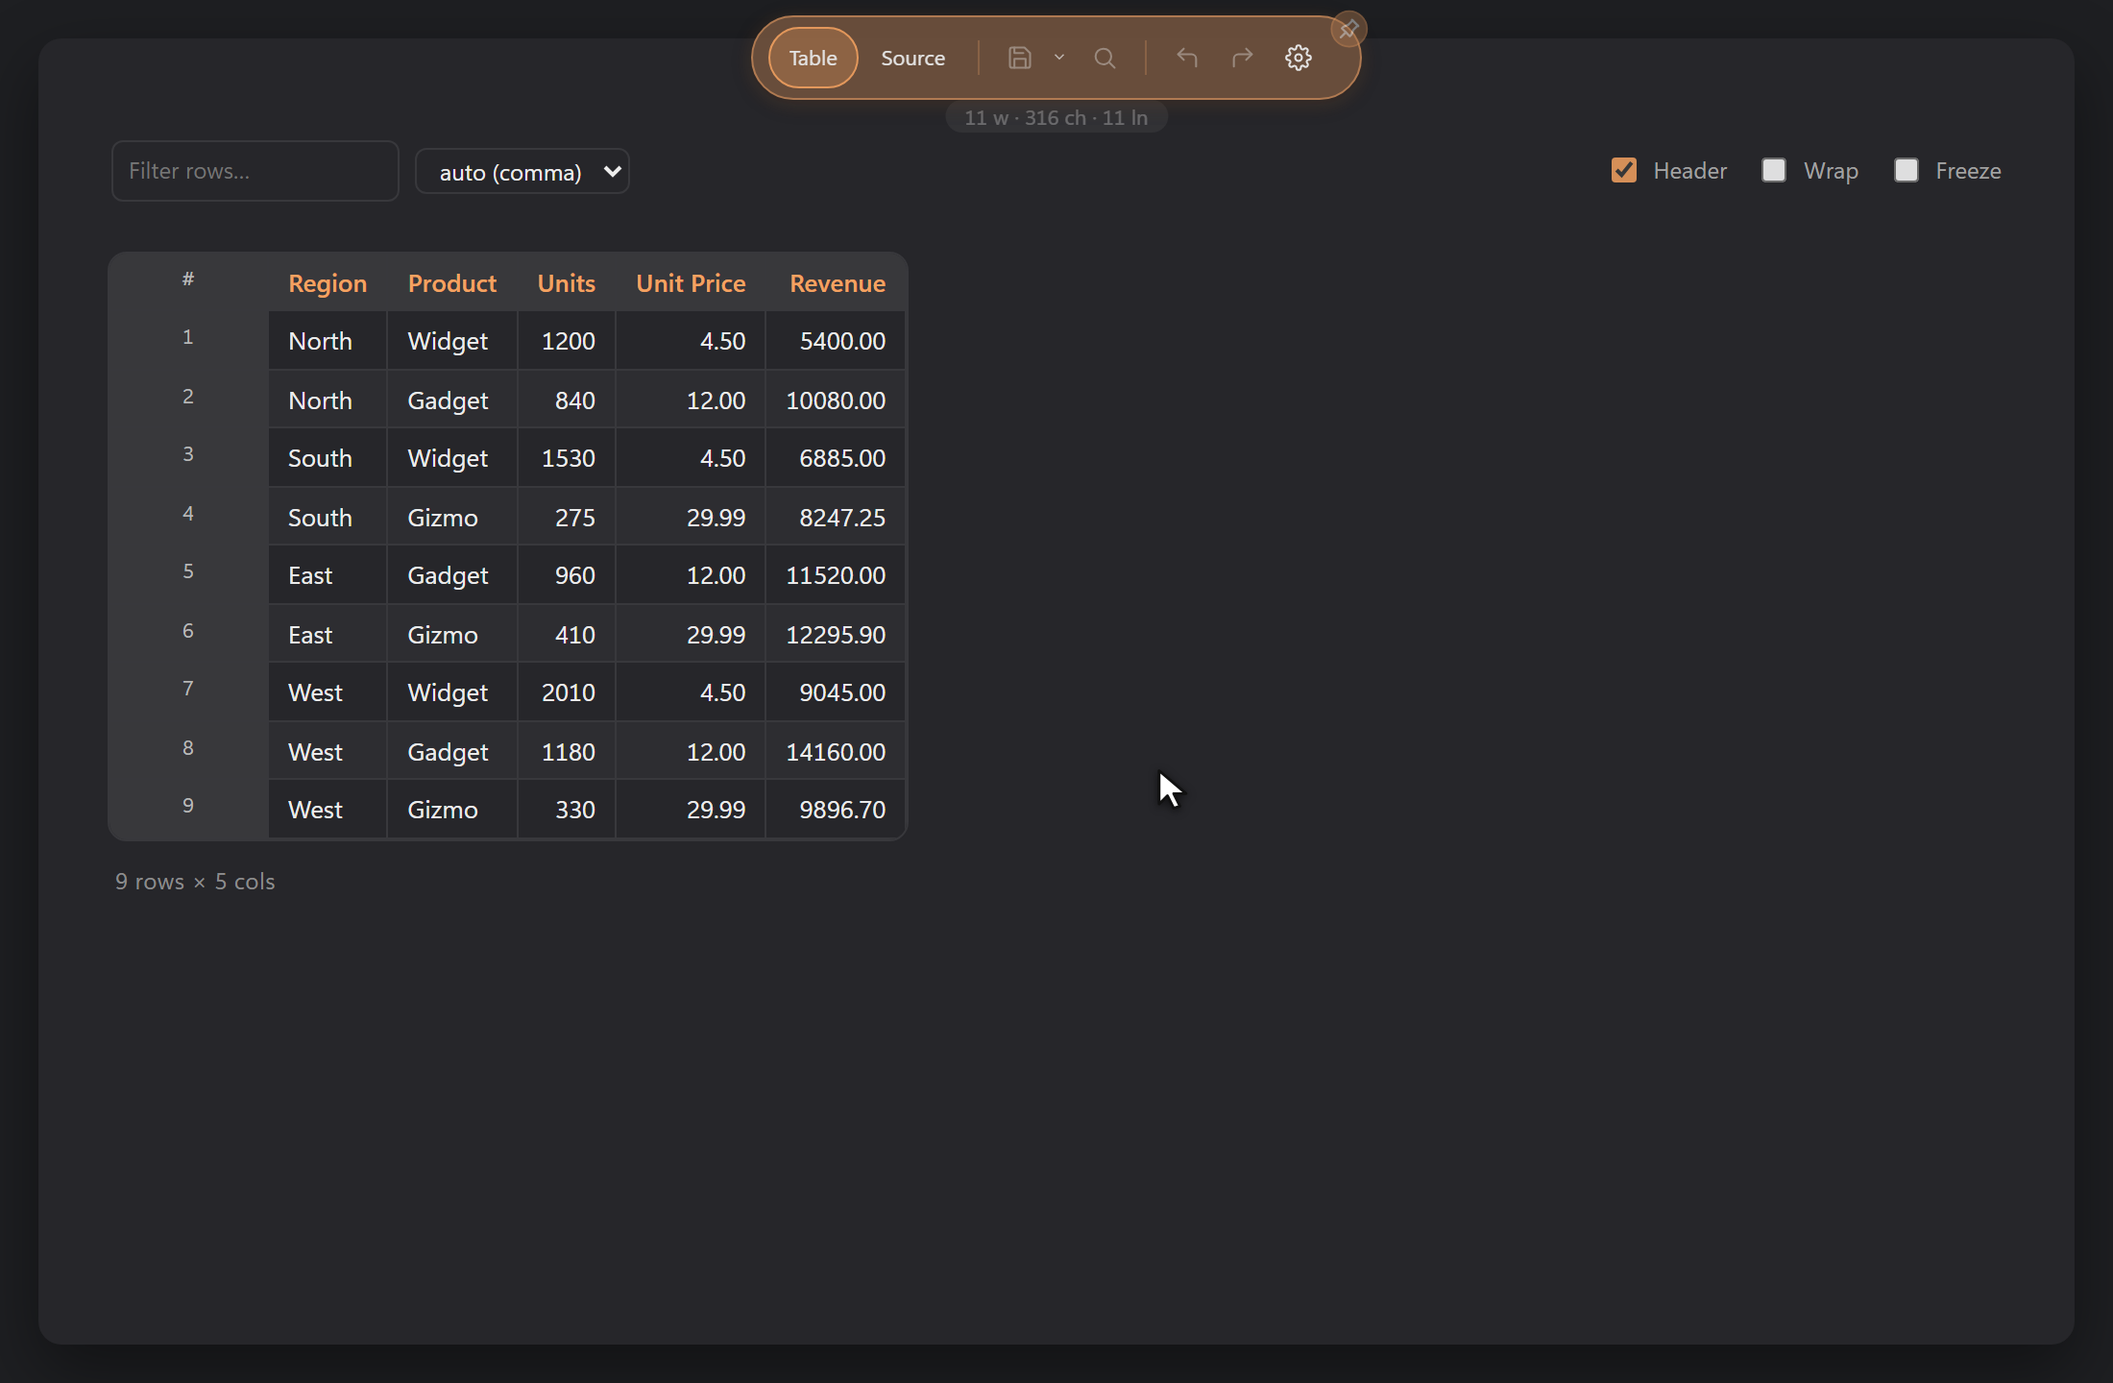
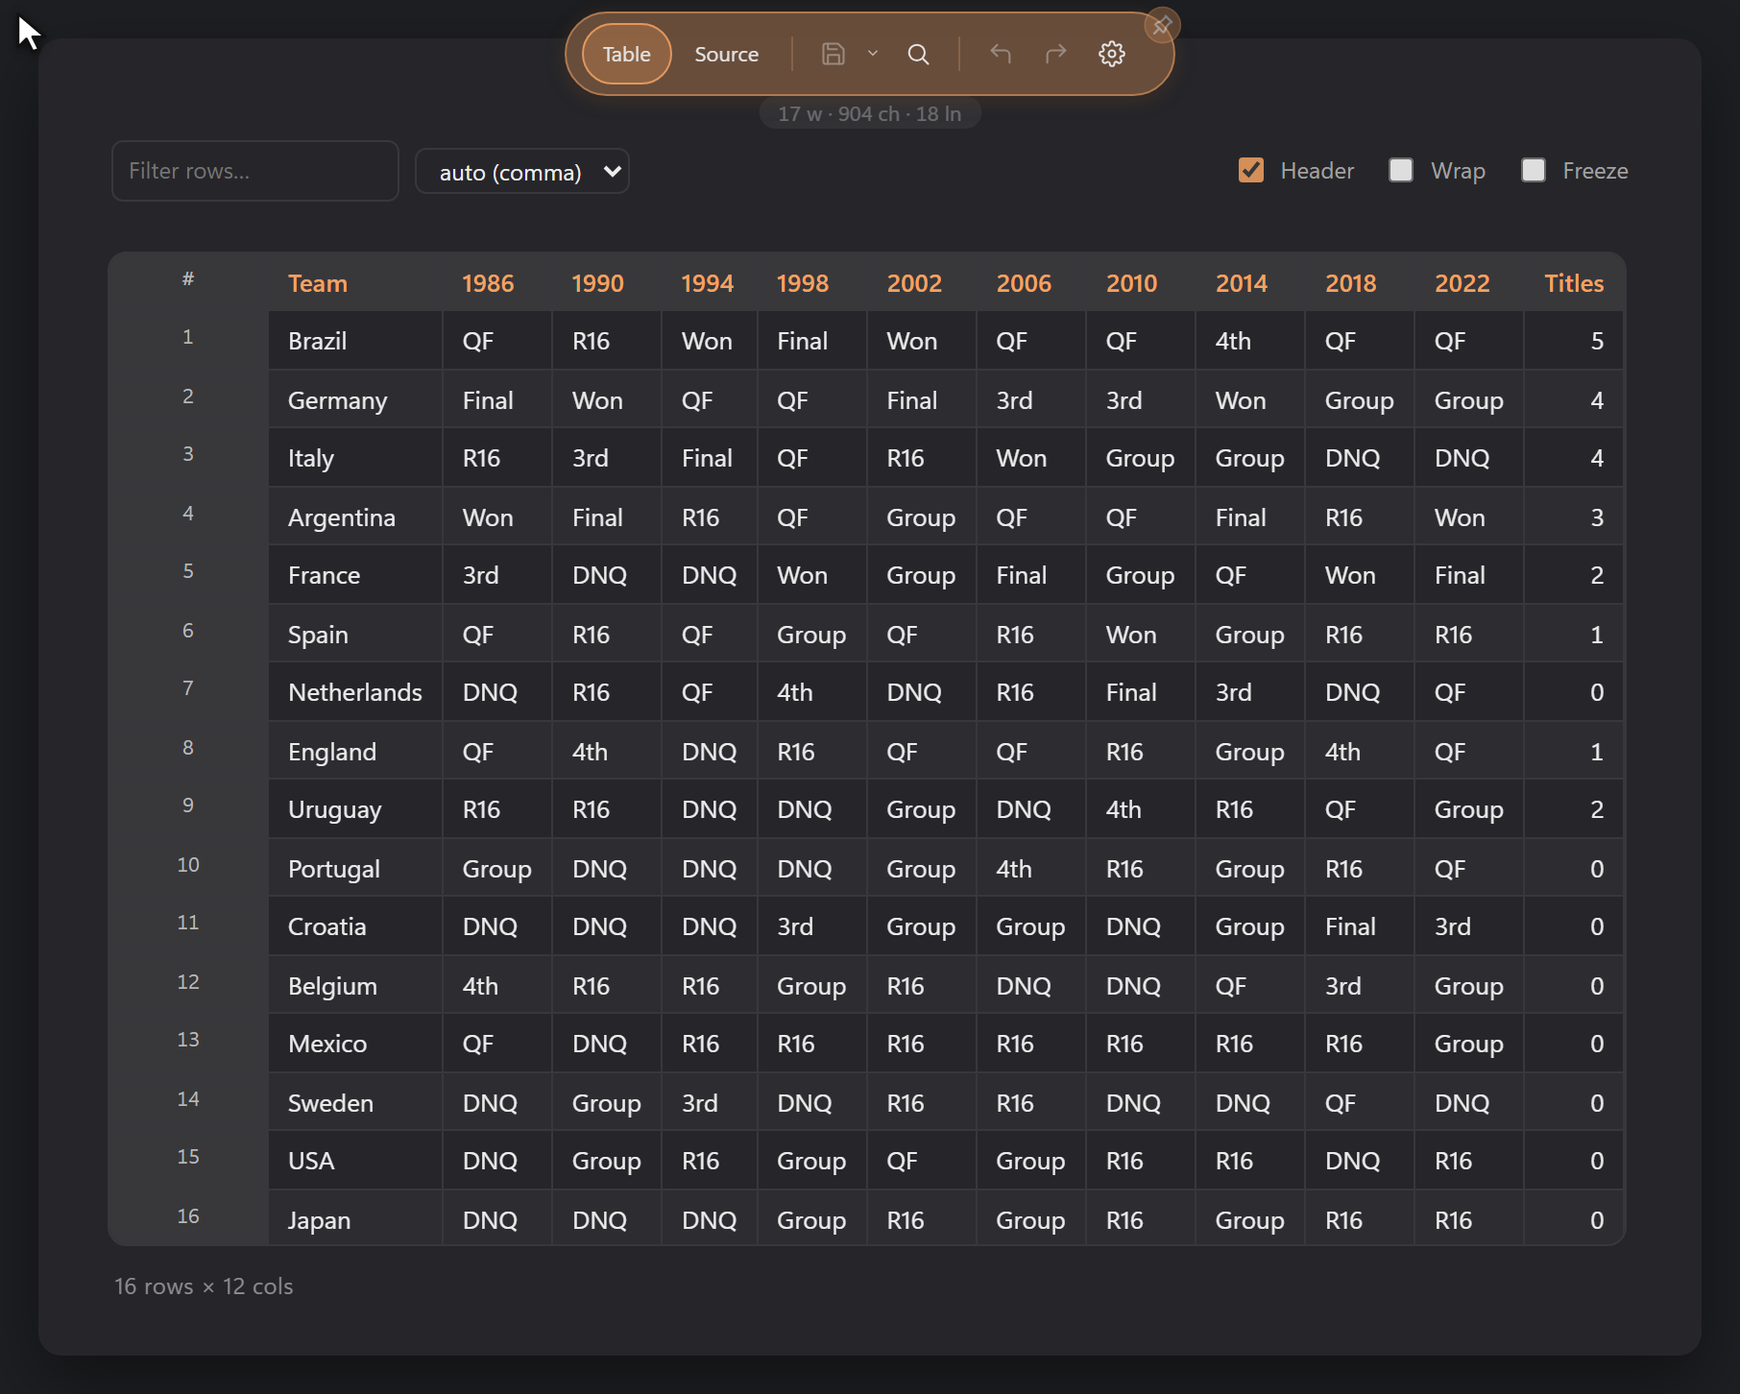
README and docs: HTML image sizing, side-by-side dark/light Mermaid, and a World Cup CSV that fills the view

diff --git a/README.md b/README.md
@@ -61,16 +61,23 @@ in**: Reading, Live or Source). DopusWorX also remembers the view you last used
 for each file, and you can keep that always, turn it off, or have it expire after
 anything from five minutes to a year.
 
-| Reading | Live |
-|:---:|:---:|
-| ![Reading: the finished, rendered page](img/reading.png) | ![Live: rendered as you type, with the formatting toolbar](img/live-toolbar.png) |
+<table>
+<tr>
+<td width="50%"><img src="img/reading.png" alt="Reading: the finished, rendered page"></td>
+<td width="50%"><img src="img/live-toolbar.png" alt="Live: rendered as you type, with the formatting toolbar"></td>
+</tr>
+<tr>
+<td align="center"><b>Reading</b></td>
+<td align="center"><b>Live</b></td>
+</tr>
+</table>
 
 **The split view.** Click Source a second time and the pane splits down the
 middle: the raw Markdown on the left, the live preview on the right, with a
 divider you can drag to resize the two panes and a button to link or unlink their
 scrolling.
 
-![The split view: raw Markdown source on the left, the live preview on the right, with a draggable divider between them](img/source-split.png)
+<img src="img/source-split.png" width="100%" alt="The split view: raw Markdown source on the left, the live preview on the right, with a draggable divider between them">
 
 A full formatting toolbar sits underneath: bold, italic, strikethrough,
 highlight, inline code, links, footnotes, a heading button that cycles H1 to H6,
@@ -105,7 +112,7 @@ Prices are safe: `$5` stays as text, and `\$` gives you a literal dollar sign.
 The maths engine only loads on notes that actually contain equations, so plain
 notes stay quick. See [`docs/04-maths.md`](docs/04-maths.md) for the full guide.
 
-![The maths symbol panel beside a rendered equation](img/maths-panel.png)
+<img src="img/maths-panel.png" width="100%" alt="The maths symbol panel beside a rendered equation">
 
 ## Diagrams
 
@@ -125,14 +132,19 @@ diagram.
 - A broken diagram shows a ⚠ box with its source and the reason, never taking the
   rest of the note down with it.
 
-DopusWorX draws the diagram inline, in the document's own colours:
+DopusWorX draws the diagram inline. With **Match page** the same diagram takes its
+colours from the active palette, so it suits a dark page or a light one:
 
-![A sequence diagram and a pie chart rendered inline by DopusWorX](img/mermaid-types.png)
-
-With **Match page**, the same diagram takes its colours from the active palette,
-so it suits a light page as readily as a dark one:
-
-![A pie chart coloured from a light page palette](img/mermaid-palette.png)
+<table>
+<tr>
+<td width="50%"><img src="img/mermaid-dark.png" alt="A World Cup titles pie chart drawn on a dark palette"></td>
+<td width="50%"><img src="img/mermaid-light.png" alt="The same pie chart drawn on a light palette"></td>
+</tr>
+<tr>
+<td align="center"><b>Dark palette</b></td>
+<td align="center"><b>Light palette</b></td>
+</tr>
+</table>
 
 See [`docs/08-mermaid.md`](docs/08-mermaid.md) for the full guide, with a live
 example of every diagram type.
@@ -153,7 +165,7 @@ code, since there is nothing to render).
 Fenced code blocks inside a Markdown document are highlighted in every Markdown
 mode.
 
-![Source view with syntax highlighting, line-number gutter and copy button](img/code-view.png)
+<img src="img/code-view.png" width="100%" alt="Source view with syntax highlighting, line-number gutter and copy button">
 
 ## CSV and tables
 
@@ -161,16 +173,23 @@ CSV and TSV open as an editable grid: click a header to sort, double-click a cel
 to edit, add or delete rows with undo and redo, filter, freeze the first column,
 override the delimiter, and copy the whole thing out as a Markdown table.
 
-![CSV opened as an editable, sortable grid](img/csv-grid.png)
+<img src="img/csv-grid.png" width="100%" alt="A CSV open as an editable grid: World Cup results by team across the years">
 
 ## HTML
 
 HTML files have a rendered **View**, a **Source** view of the raw markup, and a
 **split** that shows both at once.
 
-| Rendered View | View / Source split |
-|:---:|:---:|
-| ![HTML view](img/html-view.png) | ![HTML split](img/html-split.png) |
+<table>
+<tr>
+<td width="50%"><img src="img/html-view.png" alt="HTML rendered view"></td>
+<td width="50%"><img src="img/html-split.png" alt="HTML View / Source split"></td>
+</tr>
+<tr>
+<td align="center"><b>Rendered view</b></td>
+<td align="center"><b>View / Source split</b></td>
+</tr>
+</table>
 
 ## Themes and palettes
 
@@ -178,7 +197,7 @@ Thirty built-in palettes, dark and light, from Dracula and Nord to Catppuccin,
 Everforest and Rosé Pine, alongside the signature ProWorX and GloWorX. By default
 a palette follows the Opus pane background automatically; you can pin one instead.
 
-![Palette cascade](img/palette-cascade.png)
+<img src="img/palette-cascade.png" width="100%" alt="The same document shown across several built-in palettes">
 
 Nothing is locked down. The visual editor lets you change any colour and save it
 as your own named theme. Bold, italic, strikethrough and inline code each get
@@ -305,7 +324,7 @@ beside it so every view has something to show straight away.
 
 If you find this useful, you can buy me a coffee.
 
-<a href="https://www.buymeacoffee.com/HyperWorX" target="_blank"><img src="https://cdn.buymeacoffee.com/buttons/v2/default-yellow.png" alt="Buy Me a Coffee" style="height: 60px !important;width: 217px !important;" ></a>
+<a href="https://www.buymeacoffee.com/HyperWorX" target="_blank"><img src="https://cdn.buymeacoffee.com/buttons/v2/default-yellow.png" alt="Buy Me a Coffee" height="48"></a>
 
 </div>
 

diff --git a/docs/07-palettes.md b/docs/07-palettes.md
@@ -18,131 +18,131 @@ Every marker token is coloured via the palette accent; bold / italic / strike / 
 
 ### Default Dark
 
-![Default Dark](palette-images/default-dark.png)
+<img width="100%" src="palette-images/default-dark.png" alt="Default Dark">
 
 ### ProWorX
 
-![ProWorX](palette-images/proworx.png)
+<img width="100%" src="palette-images/proworx.png" alt="ProWorX">
 
 ### GloWorX
 
-![GloWorX](palette-images/gloworx.png)
+<img width="100%" src="palette-images/gloworx.png" alt="GloWorX">
 
 ### Dracula
 
-![Dracula](palette-images/dracula.png)
+<img width="100%" src="palette-images/dracula.png" alt="Dracula">
 
 ### Solarized Dark
 
-![Solarized Dark](palette-images/solarized-dark.png)
+<img width="100%" src="palette-images/solarized-dark.png" alt="Solarized Dark">
 
 ### Nord
 
-![Nord](palette-images/nord.png)
+<img width="100%" src="palette-images/nord.png" alt="Nord">
 
 ### Gruvbox Dark
 
-![Gruvbox Dark](palette-images/gruvbox-dark.png)
+<img width="100%" src="palette-images/gruvbox-dark.png" alt="Gruvbox Dark">
 
 ### One Dark
 
-![One Dark](palette-images/one-dark.png)
+<img width="100%" src="palette-images/one-dark.png" alt="One Dark">
 
 ### Tokyo Night
 
-![Tokyo Night](palette-images/tokyo-night.png)
+<img width="100%" src="palette-images/tokyo-night.png" alt="Tokyo Night">
 
 ### Ayu Dark
 
-![Ayu Dark](palette-images/ayu-dark.png)
+<img width="100%" src="palette-images/ayu-dark.png" alt="Ayu Dark">
 
 ### Catppuccin Mocha
 
-![Catppuccin Mocha](palette-images/catppuccin-mocha.png)
+<img width="100%" src="palette-images/catppuccin-mocha.png" alt="Catppuccin Mocha">
 
 ### GitHub Dark
 
-![GitHub Dark](palette-images/github-dark.png)
+<img width="100%" src="palette-images/github-dark.png" alt="GitHub Dark">
 
 ### Obsidianite
 
-![Obsidianite](palette-images/obsidianite.png)
+<img width="100%" src="palette-images/obsidianite.png" alt="Obsidianite">
 
 ### PLN Dark
 
-![PLN Dark](palette-images/pln-dark.png)
+<img width="100%" src="palette-images/pln-dark.png" alt="PLN Dark">
 
 ### AnuPpuccin Frappé
 
-![AnuPpuccin Frappé](palette-images/anuppuccin-frappe.png)
+<img width="100%" src="palette-images/anuppuccin-frappe.png" alt="AnuPpuccin Frappé">
 
 ### Everforest
 
-![Everforest](palette-images/everforest.png)
+<img width="100%" src="palette-images/everforest.png" alt="Everforest">
 
 ### Rosé Pine
 
-![Rosé Pine](palette-images/rose-pine.png)
+<img width="100%" src="palette-images/rose-pine.png" alt="Rosé Pine">
 
 ### Vesper
 
-![Vesper](palette-images/vesper.png)
+<img width="100%" src="palette-images/vesper.png" alt="Vesper">
 
 ### Red Rascal
 
-![Red Rascal](palette-images/red-rascal.png)
+<img width="100%" src="palette-images/red-rascal.png" alt="Red Rascal">
 
 ## Light palettes
 
 ### Default Light
 
-![Default Light](palette-images/default-light.png)
+<img width="100%" src="palette-images/default-light.png" alt="Default Light">
 
 ### ProWorX Light
 
-![ProWorX Light](palette-images/proworx-light.png)
+<img width="100%" src="palette-images/proworx-light.png" alt="ProWorX Light">
 
 ### PLN Light
 
-![PLN Light](palette-images/pln-light.png)
+<img width="100%" src="palette-images/pln-light.png" alt="PLN Light">
 
 ### Solarized Light
 
-![Solarized Light](palette-images/solarized-light.png)
+<img width="100%" src="palette-images/solarized-light.png" alt="Solarized Light">
 
 ### GitHub Light
 
-![GitHub Light](palette-images/github-light.png)
+<img width="100%" src="palette-images/github-light.png" alt="GitHub Light">
 
 ### Ayu Light
 
-![Ayu Light](palette-images/ayu-light.png)
+<img width="100%" src="palette-images/ayu-light.png" alt="Ayu Light">
 
 ### Gruvbox Light
 
-![Gruvbox Light](palette-images/gruvbox-light.png)
+<img width="100%" src="palette-images/gruvbox-light.png" alt="Gruvbox Light">
 
 ### Catppuccin Latte
 
-![Catppuccin Latte](palette-images/catppuccin-latte.png)
+<img width="100%" src="palette-images/catppuccin-latte.png" alt="Catppuccin Latte">
 
 ### One Light
 
-![One Light](palette-images/one-light.png)
+<img width="100%" src="palette-images/one-light.png" alt="One Light">
 
 ### Tokyo Night Day
 
-![Tokyo Night Day](palette-images/tokyo-night-day.png)
+<img width="100%" src="palette-images/tokyo-night-day.png" alt="Tokyo Night Day">
 
 ### Nord Light
 
-![Nord Light](palette-images/nord-light.png)
+<img width="100%" src="palette-images/nord-light.png" alt="Nord Light">
 
 ### Alucard
 
-![Alucard](palette-images/alucard.png)
+<img width="100%" src="palette-images/alucard.png" alt="Alucard">
 
 ### Obsidianite Light
 
-![Obsidianite Light](palette-images/obsidianite-light.png)
+<img width="100%" src="palette-images/obsidianite-light.png" alt="Obsidianite Light">
 

diff --git a/docs/02-file-types.md b/docs/02-file-types.md
@@ -81,7 +81,7 @@ Code files open in **Source view only**. There is no Reading or Live mode for
 code because there is nothing to render: source is its own presentation. The
 toolbar shows no mode tabs for a code file, just the single Source surface.
 
-![A Python file in Source view: syntax highlighting, a line-number gutter, and the code-editing toolbar along the bottom](images/code-view.png)
+<img width="100%" src="images/code-view.png" alt="A Python file in Source view: syntax highlighting, a line-number gutter, and the code-editing toolbar along the bottom">
 
 Source view is a CodeMirror editor with syntax highlighting, a line-number
 gutter (its style is configurable), word wrap, a copy button, colour swatches
@@ -177,7 +177,7 @@ table. Edits flow back through the same dirty / recovery / Save path as every
 other format, so saving writes the file. See [05-csv.md](05-csv.md) for the full grid
 reference.
 
-![A CSV in the Table view: sortable headers, a row-number gutter, right-aligned numeric columns, and the Header / Wrap / Freeze toggles](images/csv-grid.png)
+<img width="100%" src="images/csv-grid.png" alt="A CSV in the Table view: sortable headers, a row-number gutter, right-aligned numeric columns, and the Header / Wrap / Freeze toggles">
 
 ## HTML
 
@@ -201,9 +201,16 @@ page on the right. The split preview renders inline rather than through the
 sandboxed iframe, reusing the same divider, drag and scroll-link machinery as
 the Markdown split.
 
-| Rendered View | View / Source split |
-|:---:|:---:|
-| ![HTML rendered view](images/html-view.png) | ![HTML View / Source split](images/html-split.png) |
+<table>
+<tr>
+<td width="50%"><img src="images/html-view.png" alt="HTML rendered view"></td>
+<td width="50%"><img src="images/html-split.png" alt="HTML View / Source split"></td>
+</tr>
+<tr>
+<td align="center"><b>Rendered view</b></td>
+<td align="center"><b>View / Source split</b></td>
+</tr>
+</table>
 
 ## JSON, plain text, logs and other kinds
 

diff --git a/docs/03-editing.md b/docs/03-editing.md
@@ -31,7 +31,7 @@ Alignment carries across too. A block centred with a `<div align="center">`, a `
 
 The Source button has a small pane icon on it. Click Source once to enter Source mode; click it again to toggle a **split preview**: the raw source on the left, the rendered document on the right, side by side. Click once more to drop back to a single pane. The split state is remembered per file for the session.
 
-![The Source split: raw Markdown on the left, the rendered document on the right, with a draggable divider between them](images/source-split.png)
+<img width="100%" src="images/source-split.png" alt="The Source split: raw Markdown on the left, the rendered document on the right, with a draggable divider between them">
 
 While the split is open:
 
@@ -148,7 +148,7 @@ In Source mode you write footnotes by hand as plain markdown: a `[^id]` marker i
 
 The magnifier button on the top toolbar opens the find and replace panel. (In code Source mode, the code toolbar's Find button opens the editor's own search instead.)
 
-![The find and replace panel with a live match count and the case, whole-word and regex toggles; matches are highlighted in the document](images/find-replace.png)
+<img width="100%" src="images/find-replace.png" alt="The find and replace panel with a live match count and the case, whole-word and regex toggles; matches are highlighted in the document">
 
 - Type in the **Find** field. The match count shows beside it live ("3 matches", "no matches", or "bad regex" if a regular expression will not compile). If you had a single line selected when you opened the panel, it seeds the Find field for you.
 - Type a replacement in the **Replace** field.

diff --git a/docs/08-mermaid.md b/docs/08-mermaid.md
@@ -159,7 +159,7 @@ sankey, C4, block, packet, kanban and more. The colour theming covers the
 series-based ones, so git branches, quadrant cells, gantt sections, XY-chart bars
 and user-journey boxes all come out in distinct palette colours.
 
-![Sequence and pie diagrams rendered in DopusWorX](images/mermaid-types.png)
+<img width="100%" src="images/mermaid-types.png" alt="Sequence and pie diagrams rendered in DopusWorX">
 
 ## Diagram settings
 
@@ -178,7 +178,7 @@ All eight sit under Settings &middot; Content &middot; Diagrams, next to the on/
 
 A change applies straight away: any diagram on screen redraws with the new setting, and the cache keeps a separate copy per combination so flipping back is instant. Because Match page reads your palette, switching the page between light and dark also recolours the diagrams to suit.
 
-![A pie chart taking its colours from the page palette](images/mermaid-palette.png)
+<img width="100%" src="images/mermaid-palette.png" alt="A pie chart taking its colours from the page palette">
 
 ### How the settings dialog works
 

diff --git a/docs/05-csv.md b/docs/05-csv.md
@@ -4,7 +4,7 @@ Open a `.csv` or `.tsv` file and DopusWorX shows it as a spreadsheet-style grid 
 
 Edits write straight back to the file when you save. The grid never reorders or drops rows behind your back: sorting and filtering only change what you see, not what gets written.
 
-![A CSV open as an editable grid: the filter box and delimiter dropdown on the left, Header / Wrap / Freeze toggles on the right, sortable headers, a row-number gutter, right-aligned numeric columns, and a row/column count in the footer](images/csv-grid.png)
+<img width="100%" src="images/csv-grid.png" alt="A CSV open as an editable grid: the filter box and delimiter dropdown on the left, Header / Wrap / Freeze toggles on the right, sortable headers, a row-number gutter, right-aligned numeric columns, and a row/column count in the footer">
 
 ## Opening a file
 

diff --git a/docs/04-maths.md b/docs/04-maths.md
@@ -101,7 +101,7 @@ Where they work:
 
 Click the **&Sigma;** button on the editing toolbar to open a small floating panel, so you do not have to memorise anything. The button only appears once maths is switched on, and the panel floats inside the viewer pane rather than opening a separate window.
 
-![The maths symbol panel: category tabs, a grid of symbols, the inline and display equation buttons, a styles row, and the live preview surface with a Preview toggle](images/maths-panel.png)
+<img width="100%" src="images/maths-panel.png" alt="The maths symbol panel: category tabs, a grid of symbols, the inline and display equation buttons, a styles row, and the live preview surface with a Preview toggle">
 
 Everything you click goes into the editor you are working in (Live or Source).
 

diff --git a/docs/06-context-menus.md b/docs/06-context-menus.md
@@ -6,7 +6,7 @@ The viewer turns off the WebView2 browser menu on purpose, so the menu you see i
 
 ## The right-click menu
 
-![The right-click menu in Reading mode, showing Copy, Print / Save as PDF, Select all and Zoom](images/context-menu.png)
+<img width="100%" src="images/context-menu.png" alt="The right-click menu in Reading mode, showing Copy, Print / Save as PDF, Select all and Zoom">
 
 The menu is built fresh on every right-click, so it only ever lists actions that apply to where you clicked. Two things decide what you get:
 

diff --git a/docs/01-getting-started.md b/docs/01-getting-started.md
@@ -1,6 +1,6 @@
 # Getting started
 
-![A Markdown file open in Reading mode, with the mode and Save buttons in the top toolbar](images/reading.png)
+<img width="100%" src="images/reading.png" alt="A Markdown file open in Reading mode, with the mode and Save buttons in the top toolbar">
 
 1. Install DopusWorX (see the main README), then open any supported file in the
    Directory Opus viewer pane or the pop-out viewer window.
